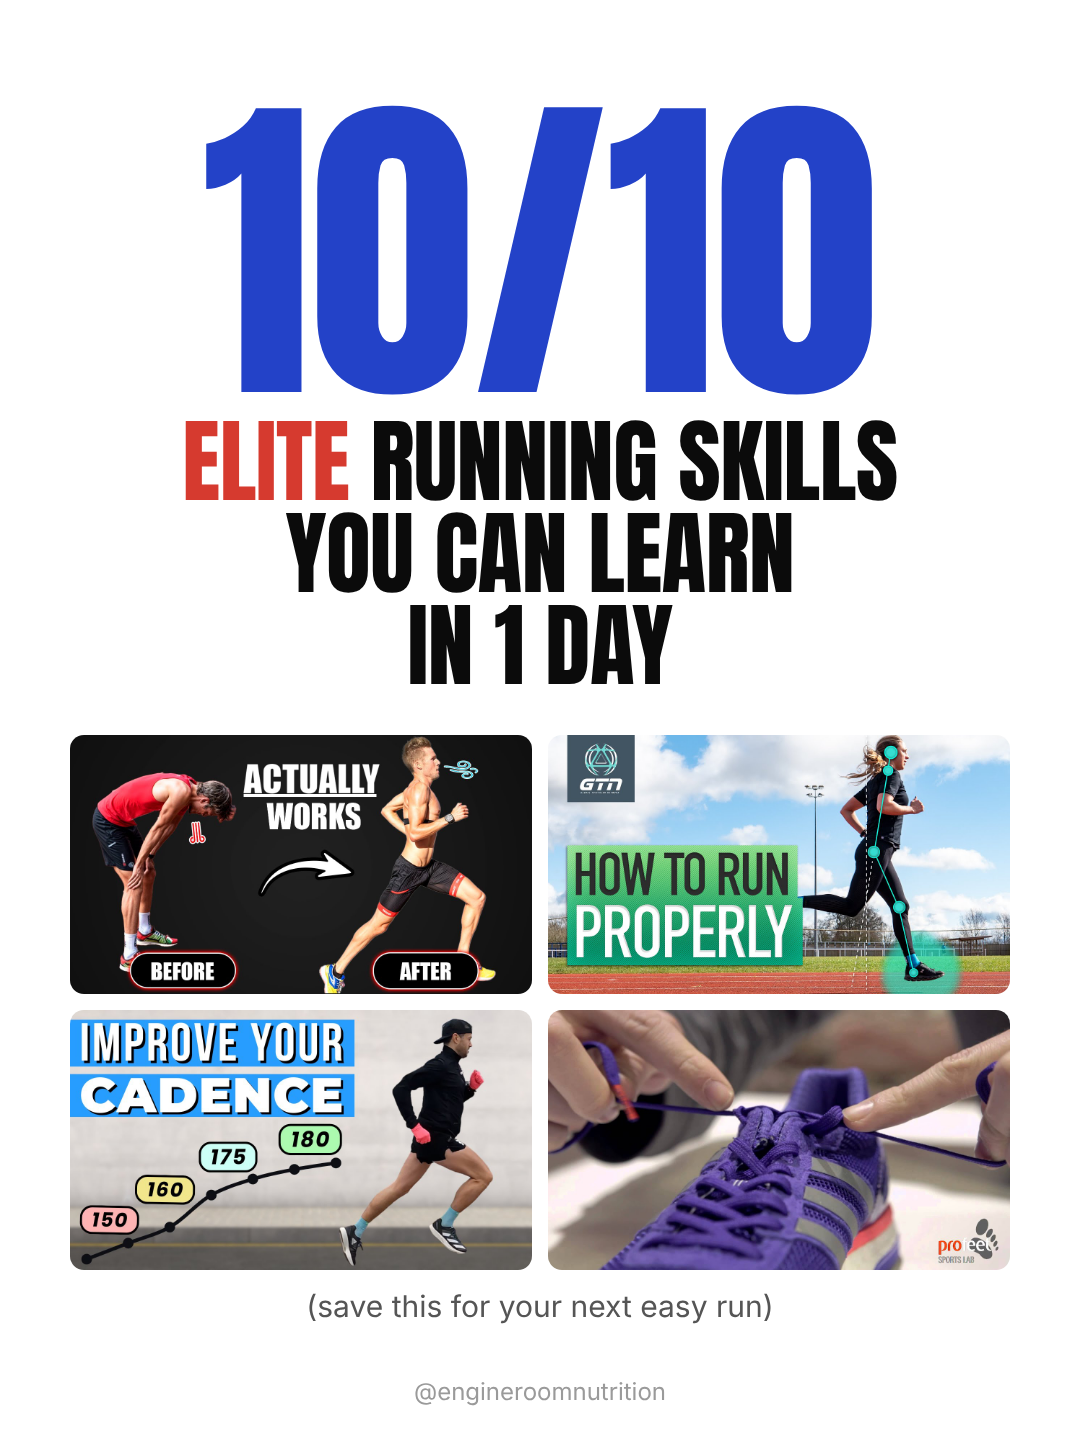
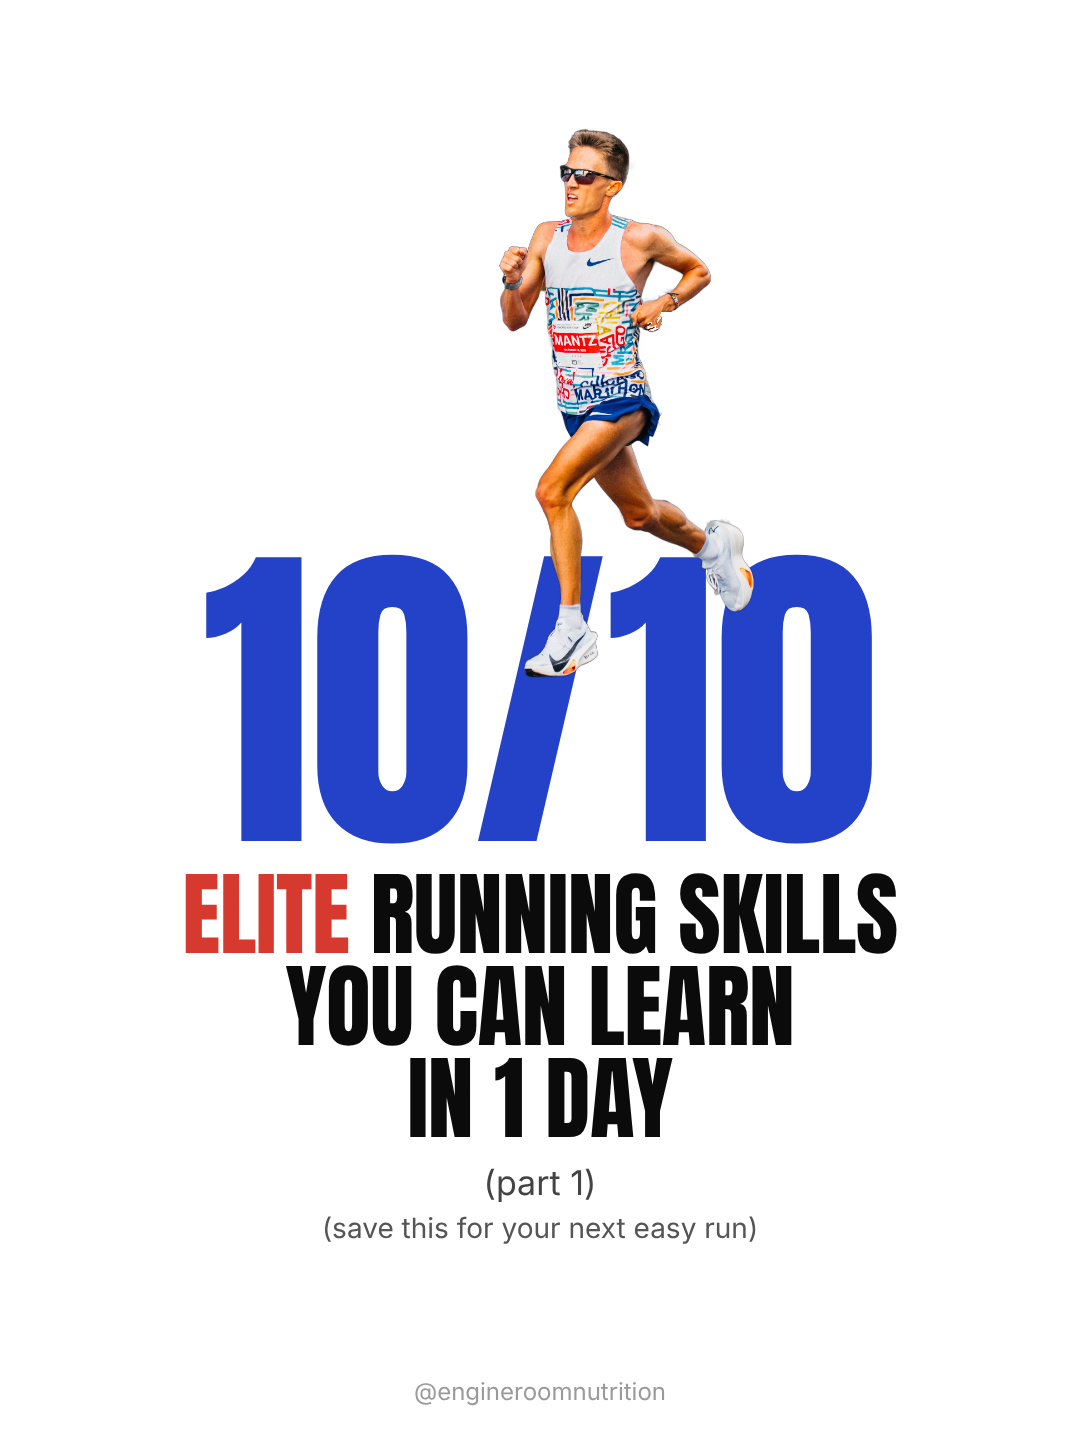
Carousel cover: Conner Mantz cut-out (CC0) running across the 10/10, part 1
Claude-Session: https://claude.ai/code/session_01C5bFwjsy7wubJR84HAMdDJ

diff --git a/motion/carousel-skills/carousel.html b/motion/carousel-skills/carousel.html
@@ -58,11 +58,13 @@ const S={
 const p=document.getElementById('p');
 const gap=H>1400?1:0.82;
 if(n===1){
-  p.innerHTML=`<div style="height:${Math.round(H*.07)}px"></div>
-  <div class="anton score">10/10</div>
-  <div class="anton cl" style="margin-top:10px"><span style="color:#d63a2f">ELITE</span> RUNNING SKILLS<br>YOU CAN LEARN<br>IN 1 DAY</div>
-  <div class="grid" style="margin-top:${Math.round(44*gap)}px">${['11-pxn34Lx3CYY.jpg','02-_kGESn8ArrU.jpg','04-eacl52qzr4E.jpg','05-jG_XzEjD9Ls.jpg'].map(f=>`<img src="${T+f}">`).join('')}</div>
-  <div class="small">(save this for your next easy run)</div>`;
+  const big=H>1400;
+  p.innerHTML=`<img src="photos/mantz-cutout.png" style="position:absolute;left:50%;transform:translateX(-48%);top:${big?120:75}px;height:${big?560:520}px;z-index:2">
+  <div style="height:${big?550:475}px"></div>
+  <div class="anton score" style="position:relative;z-index:1">10/10</div>
+  <div class="anton cl" style="margin-top:14px"><span style="color:#d63a2f">ELITE</span> RUNNING SKILLS<br>YOU CAN LEARN<br>IN 1 DAY</div>
+  <div class="small" style="font-size:34px;color:#444">(part 1)</div>
+  <div class="small" style="font-size:28px;margin-top:8px">(save this for your next easy run)</div>`;
 } else if(n===4){
   p.innerHTML=`<div style="height:${Math.round(H*.075)}px"></div>
   <div class="anton h1">HIT EVERY 10K<br><span style="color:#2f6fd6">SIGN ON TIME</span></div>
@@ -84,5 +86,5 @@ if(n===1){
 }
 if(n>1) p.insertAdjacentHTML('beforeend',`<div class="count">${n}/7</div>`);
 if(!(n===1&&H<1400)) p.insertAdjacentHTML('beforeend',`<div class="handle">@engineroomnutrition</div>`);
-if(n===1&&H<1400){document.querySelector('.score').style.fontSize='300px';}
+if(n===1&&H<1400){document.querySelector('.score').style.fontSize='290px';}
 </script></body></html>

diff --git a/ideas/engine-room-nutrition/2026-11-26-carousel-elite-skills.md b/ideas/engine-room-nutrition/2026-11-26-carousel-elite-skills.md
@@ -21,3 +21,6 @@ Comment SKILLS and I'll email you all five links plus your pace plan.
 
 ## Pinned comment
 Which skill are you trying first? Comment SKILLS for the links by email.
+
+## Cover photo (26 Nov, Luke: an elite runner, not Luke)
+Conner Mantz, 2025 Chicago Marathon, Wikimedia Commons, **CC0 (public domain, no credit needed)**: https://commons.wikimedia.org/wiki/File:Conner_Mantz_2025_Chicago_Marathon.jpg. Cut out with rembg (`motion/carousel-skills/photos/mantz-cutout.png`), running across the 10/10 like slow internet club's perched cut-outs; the thumbnail grid is off the cover; (part 1) added. Nike and Bank of America logos are on his kit and bib (as in the photo).
